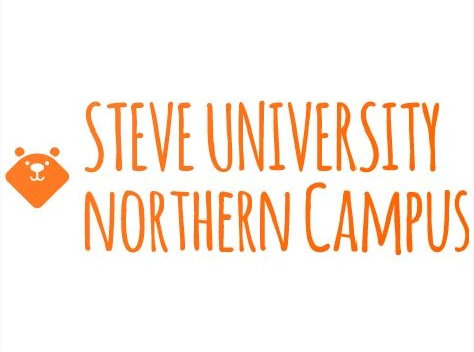
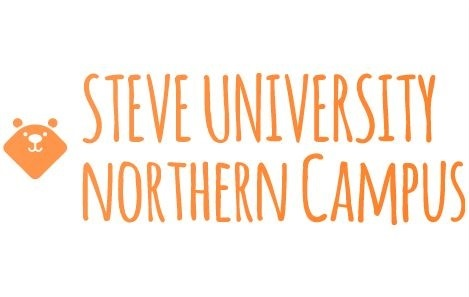
Made some changes to the header in the northern.css

Changed region(s): [[0.1493, 0.2424, 1.0, 0.7576], [0.0, 0.3939, 0.1493, 0.6061]]

diff --git a/UniversitySite_A1/WebContent/CSS/northern.css b/UniversitySite_A1/WebContent/CSS/northern.css
@@ -8,7 +8,7 @@ body {
 }
 
 #header {
-	
+		margin: 30px 0px 30px 50px
 }
 
 #sidebar {	
